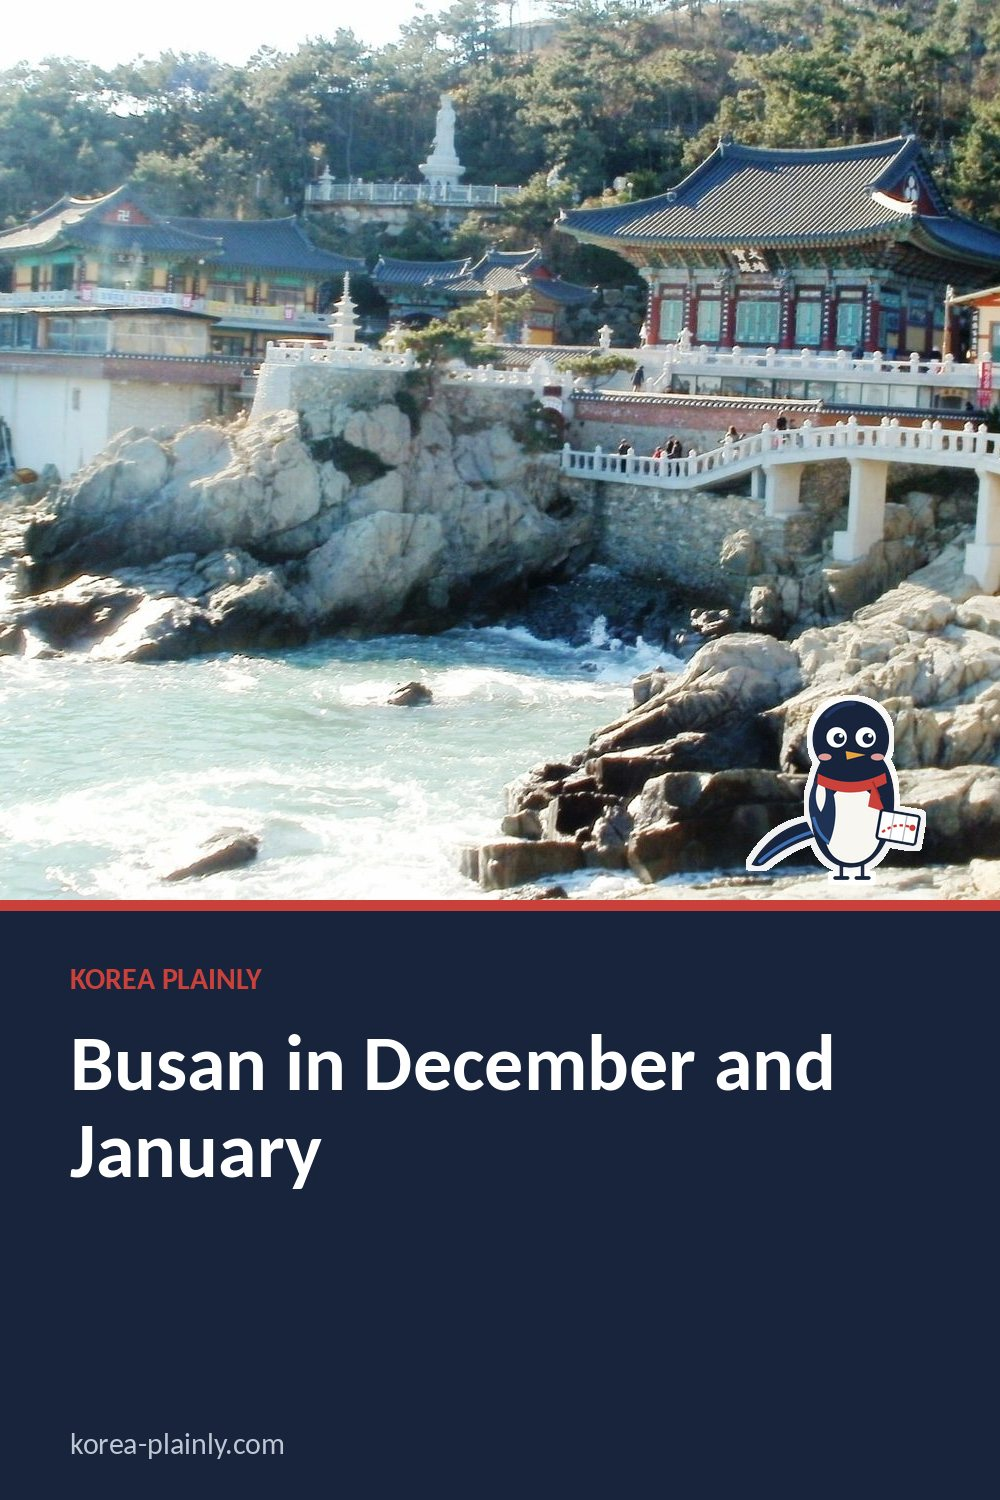
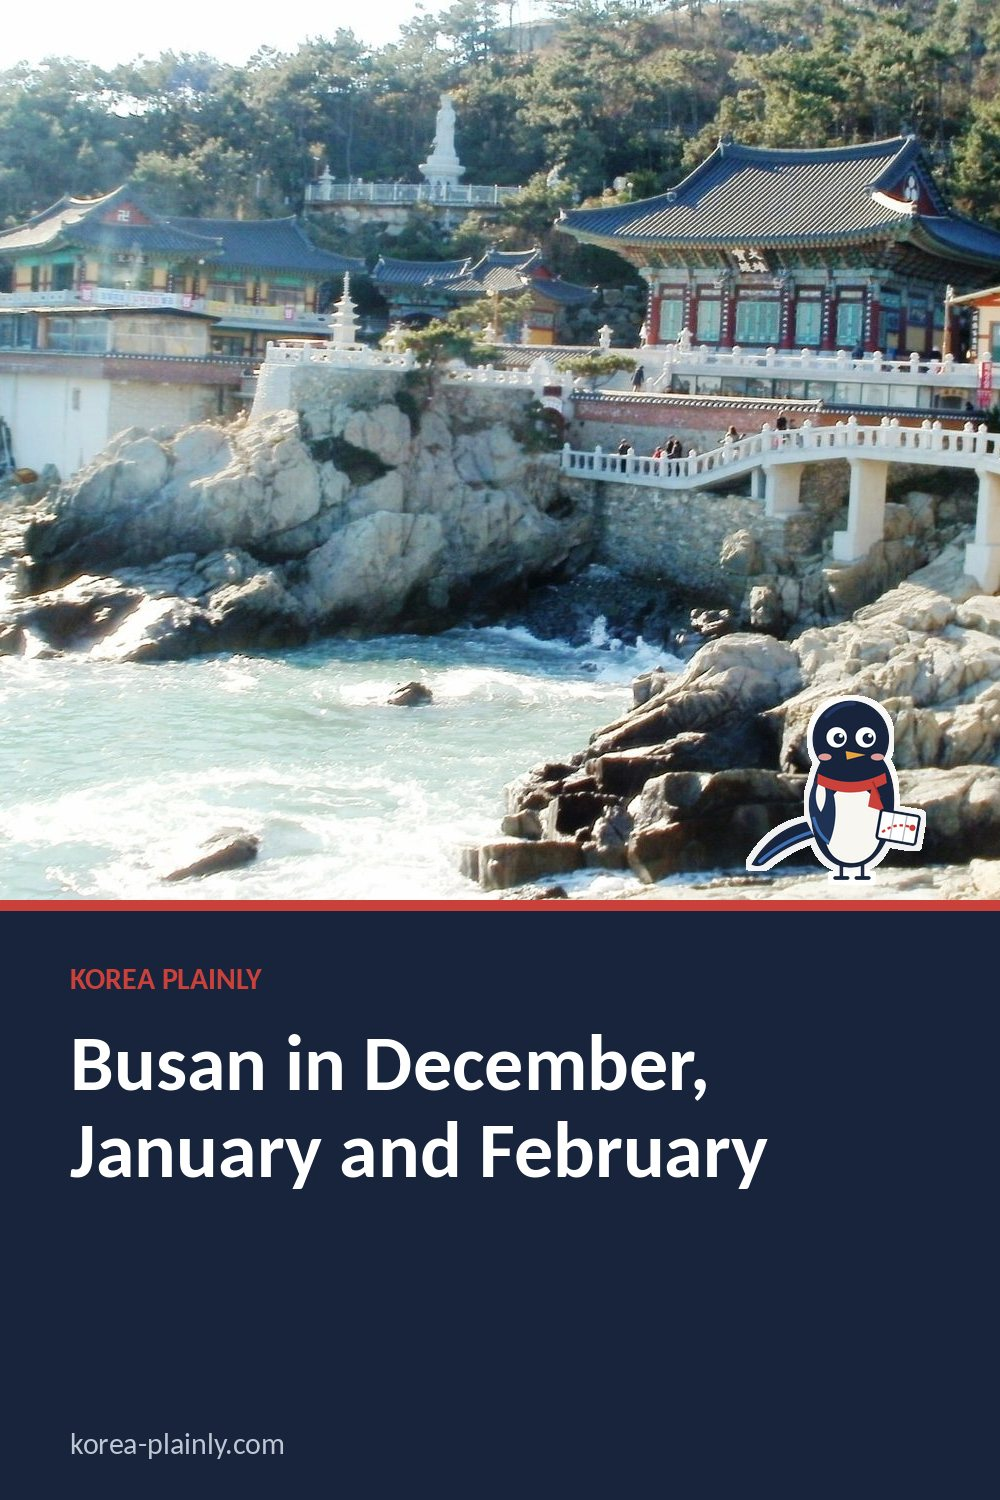
Busan in winter: retitle for 'Busan in February', fuller February section (Seollal 2027 closures, Daeboreum 21 Feb at Haeundae, early plum blossom at Tongdosa), February weather FAQ, specific meta description
Claude-Session: https://claude.ai/code/session_01MMQnqFDHyu6GxmFfpwXQnd

Changed region(s): [[0.341, 0.6747, 0.837, 0.7973]]

diff --git a/busan-in-winter.html b/busan-in-winter.html
@@ -11,11 +11,11 @@
 >
 
 <link rel="stylesheet" href="style.css?v=20261015-1">
-<title>Busan in December and January: Weather, Things to Do and What to Pack</title>
+<title>Busan in December, January and February: Weather, Things to Do and What to Pack</title>
 
 <meta
   name="description"
-  content="Busan in December and January: about 10°C by day and near freezing at night, plus beach walks, winter lights, hot food and what to pack for the sea wind."
+  content="Busan from December to February: about 8-10°C by day, sea wind, Haeundae lights, Seollal and Daeboreum, hot soups, bathhouses and what to pack."
 >
 <link
   rel="canonical"
@@ -29,12 +29,12 @@
 
 <meta
   property="og:title"
-  content="Busan in December and January: Weather, Things to Do and What to Pack"
+  content="Busan in December, January and February: Weather, Things to Do and What to Pack"
 >
 
 <meta
   property="og:description"
-  content="Busan in December and January: about 10°C by day and near freezing at night, plus beach walks, winter lights, hot food and what to pack for the sea wind."
+  content="Busan from December to February: about 8-10°C by day, sea wind, Haeundae lights, Seollal and Daeboreum, hot soups, bathhouses and what to pack."
 >
 
 <meta
@@ -59,12 +59,12 @@
 
 <meta
   name="twitter:title"
-  content="Busan in December and January: Weather, Things to Do and What to Pack"
+  content="Busan in December, January and February: Weather, Things to Do and What to Pack"
 >
 
 <meta
   name="twitter:description"
-  content="Busan in December and January: about 10°C by day and near freezing at night, plus beach walks, winter lights, hot food and what to pack for the sea wind."
+  content="Busan from December to February: about 8-10°C by day, sea wind, Haeundae lights, Seollal and Daeboreum, hot soups, bathhouses and what to pack."
 >
 
 <meta
@@ -247,9 +247,9 @@ footer {
 <link rel="stylesheet" href="article.css?v=4">
 <link rel="stylesheet" href="https://fonts.googleapis.com/css2?family=DM+Sans:wght@400;500;600;700&family=Playfair+Display:ital,wght@0,600;1,600&display=swap">
 <link rel="icon" href="/favicon.svg" type="image/svg+xml">
-<script type="application/ld+json" id="kp-faq-ld">{"@context": "https://schema.org", "@type": "FAQPage", "mainEntity": [{"@type": "Question", "name": "Is Busan worth visiting in winter?", "acceptedAnswer": {"@type": "Answer", "text": "Yes, if you dress for the wind. Busan is usually milder than Seoul and often sunny, the beaches and temples are quieter, the winter lights look their best and hot soups and bathhouses are at their most welcome. Plan on walks, markets, temples and food rather than the beach."}}, {"@type": "Question", "name": "Does it snow in Busan?", "acceptedAnswer": {"@type": "Answer", "text": "Rarely. Busan gets snow only on a few days in some winters, and it usually melts quickly. If you want snow, go to Gangwon Province in the north-east; see our winter festivals guide."}}, {"@type": "Question", "name": "Can you swim in Busan in winter?", "acceptedAnswer": {"@type": "Answer", "text": "Not really. The sea is cold, and the beaches are only officially open for swimming, with lifeguards, in summer. You may see a polar bear swim event at Haeundae in some winters, but for most visitors winter is a season for beach walks, not swimming."}}, {"@type": "Question", "name": "What is the weather like in Busan in January?", "acceptedAnswer": {"@type": "Answer", "text": "Cold, dry and often sunny. January is Busan's coldest month, with daytime highs of about 8°C and nights near 0°C on average, and the wind by the sea makes it feel colder. Pack a windproof coat, gloves and a hat."}}, {"@type": "Question", "name": "Is December a good time to visit Busan?", "acceptedAnswer": {"@type": "Answer", "text": "Yes, if you dress for the wind. December is milder than in Seoul, often sunny, and the Haeundae and Gwangbok-ro light festivals make the evenings special. Book trains early for Christmas weekend and New Year."}}, {"@type": "Question", "name": "What should I wear in Busan in December?", "acceptedAnswer": {"@type": "Answer", "text": "Layers and a windproof coat. Days are often around 10°C but feel colder by the sea and after dark, so bring a warm jumper, gloves and a hat for the evenings, and shoes you can walk on hills in."}}]}</script>
-<script type="application/ld+json" id="kp-article-ld">{"@context": "https://schema.org", "@type": "Article", "headline": "Busan in December and January: Weather, Things to Do and What to Pack", "description": "Busan in December and January: about 10°C by day and near freezing at night, plus beach walks, winter lights, hot food and what to pack for the sea wind.", "image": ["https://korea-plainly.com/photo-busan-in-winter.jpg"], "datePublished": "2026-10-30", "dateModified": "2026-11-13", "author": {"@type": "Person", "name": "Jungsuk Kim", "url": "https://korea-plainly.com/about.html#author"}, "publisher": {"@type": "Organization", "name": "Korea Plainly", "url": "https://korea-plainly.com/"}, "mainEntityOfPage": "https://korea-plainly.com/busan-in-winter.html"}</script>
-<script type="application/ld+json" id="kp-breadcrumb-ld">{"@context": "https://schema.org", "@type": "BreadcrumbList", "itemListElement": [{"@type": "ListItem", "position": 1, "name": "Home", "item": "https://korea-plainly.com/"}, {"@type": "ListItem", "position": 2, "name": "Guides", "item": "https://korea-plainly.com/guides.html"}, {"@type": "ListItem", "position": 3, "name": "Travel Basics", "item": "https://korea-plainly.com/guides.html?category=travel"}, {"@type": "ListItem", "position": 4, "name": "Busan in December and January: Weather, Things to Do and What to Pack", "item": "https://korea-plainly.com/busan-in-winter.html"}]}</script>
+<script type="application/ld+json" id="kp-faq-ld">{"@context": "https://schema.org", "@type": "FAQPage", "mainEntity": [{"@type": "Question", "name": "Is Busan worth visiting in winter?", "acceptedAnswer": {"@type": "Answer", "text": "Yes, if you dress for the wind. Busan is usually milder than Seoul and often sunny, the beaches and temples are quieter, the winter lights look their best and hot soups and bathhouses are at their most welcome. Plan on walks, markets, temples and food rather than the beach."}}, {"@type": "Question", "name": "Does it snow in Busan?", "acceptedAnswer": {"@type": "Answer", "text": "Rarely. Busan gets snow only on a few days in some winters, and it usually melts quickly. If you want snow, go to Gangwon Province in the north-east; see our winter festivals guide."}}, {"@type": "Question", "name": "Can you swim in Busan in winter?", "acceptedAnswer": {"@type": "Answer", "text": "Not really. The sea is cold, and the beaches are only officially open for swimming, with lifeguards, in summer. You may see a polar bear swim event at Haeundae in some winters, but for most visitors winter is a season for beach walks, not swimming."}}, {"@type": "Question", "name": "What is the weather like in Busan in January?", "acceptedAnswer": {"@type": "Answer", "text": "Cold, dry and often sunny. January is Busan's coldest month, with daytime highs of about 8°C and nights near 0°C on average, and the wind by the sea makes it feel colder. Pack a windproof coat, gloves and a hat."}}, {"@type": "Question", "name": "What is the weather like in Busan in February?", "acceptedAnswer": {"@type": "Answer", "text": "Cool, dry and often sunny. Average highs are about 10°C and lows about 1°C, a little warmer than January, and the sea wind still bites in the evening. A warm jumper, a windproof coat and gloves are enough for most days."}}, {"@type": "Question", "name": "Is December a good time to visit Busan?", "acceptedAnswer": {"@type": "Answer", "text": "Yes, if you dress for the wind. December is milder than in Seoul, often sunny, and the Haeundae and Gwangbok-ro light festivals make the evenings special. Book trains early for Christmas weekend and New Year."}}, {"@type": "Question", "name": "What should I wear in Busan in December?", "acceptedAnswer": {"@type": "Answer", "text": "Layers and a windproof coat. Days are often around 10°C but feel colder by the sea and after dark, so bring a warm jumper, gloves and a hat for the evenings, and shoes you can walk on hills in."}}]}</script>
+<script type="application/ld+json" id="kp-article-ld">{"@context": "https://schema.org", "@type": "Article", "headline": "Busan in December, January and February: Weather, Things to Do and What to Pack", "description": "Busan from December to February: about 8-10°C by day, sea wind, Haeundae lights, Seollal and Daeboreum, hot soups, bathhouses and what to pack.", "image": ["https://korea-plainly.com/photo-busan-in-winter.jpg"], "datePublished": "2026-10-30", "dateModified": "2026-11-18", "author": {"@type": "Person", "name": "Jungsuk Kim", "url": "https://korea-plainly.com/about.html#author"}, "publisher": {"@type": "Organization", "name": "Korea Plainly", "url": "https://korea-plainly.com/"}, "mainEntityOfPage": "https://korea-plainly.com/busan-in-winter.html"}</script>
+<script type="application/ld+json" id="kp-breadcrumb-ld">{"@context": "https://schema.org", "@type": "BreadcrumbList", "itemListElement": [{"@type": "ListItem", "position": 1, "name": "Home", "item": "https://korea-plainly.com/"}, {"@type": "ListItem", "position": 2, "name": "Guides", "item": "https://korea-plainly.com/guides.html"}, {"@type": "ListItem", "position": 3, "name": "Travel Basics", "item": "https://korea-plainly.com/guides.html?category=travel"}, {"@type": "ListItem", "position": 4, "name": "Busan in December, January and February: Weather, Things to Do and What to Pack", "item": "https://korea-plainly.com/busan-in-winter.html"}]}</script>
 <meta property="article:published_time" content="2026-10-30">
 </head>
 
@@ -280,12 +280,12 @@ TRAVEL BASICS · SEASONAL
 </div>
 
 <h1>
-Busan in December and January: Weather, Things to Do and What to Pack
+Busan in December, January and February: Weather, Things to Do and What to Pack
 </h1>
-<p class="kp-date" data-kp="date">By <a href="about.html#author">Jungsuk Kim</a>, Korea Plainly · Published <time datetime="2026-10-30">30 October 2026</time> · Updated <time datetime="2026-11-13">13 November 2026</time></p>
+<p class="kp-date" data-kp="date">By <a href="about.html#author">Jungsuk Kim</a>, Korea Plainly · Published <time datetime="2026-10-30">30 October 2026</time> · Updated <time datetime="2026-11-18">18 November 2026</time></p>
 
 <p class="dek">
-Busan in December and January: about 10°C by day and near freezing at night, plus beach walks, winter lights, hot food and what to pack for the sea wind.
+Busan from December to February: about 8-10°C by day, sea wind, Haeundae lights, Seollal and Daeboreum, hot soups, bathhouses and what to pack.
 </p>
 
 <img
@@ -317,7 +317,13 @@ Busan in December and January: about 10°C by day and near freezing at night, pl
 <h3>Busan in January</h3>
 <p>January is the coldest month, with days around 8°C and nights near freezing, and the strongest sea wind. On 1 January thousands of people gather on Haeundae Beach and at Haedong Yonggungsa to watch the first sunrise of the year, so go very early or pick a quieter spot. The Haeundae lights stay up until about 10 January.</p>
 <h3>Busan in February</h3>
-<p>February is still cold but slowly brightens, with days back up to about 10°C. Seollal (Lunar New Year) falls on 7 February 2027, with a holiday from 6 to 9 February: trains out of Seoul sell out early, and some markets and small restaurants close for a day or two. See our <a href="seollal-travel-tips.html">Seollal guide</a>.</p>
+<p>February is still cold but slowly brightens, with days back up to about 10°C and nights around 1°C. It is the quietest month of the winter: the light festivals are over, hotel prices near Haeundae are usually at their lowest, and the first signs of spring appear by the end of the month.</p>
+<ul>
+<li><strong>Seollal (설날, Lunar New Year)</strong> falls on 7 February 2027, with a holiday from 6 to 9 February. KTX tickets out of Seoul sell out early, and many market stalls in Gukje Market and Bupyeong Kkangtong Market, and small family restaurants, close for a day or two. Department stores, big cafés and Spa Land usually stay open. See our <a href="seollal-travel-tips.html">Seollal guide</a>.</li>
+<li><strong>Jeongwol Daeboreum (정월대보름)</strong>, the first full moon of the lunar year, falls on 21 February 2027. Haeundae Beach usually hosts a <em>daljip</em> (moon house) burning on the sand that evening, with folk games and roasted nuts (<em>bureom</em>); check Haeundae-gu's website for the year's programme.</li>
+<li><strong>Early plum blossom.</strong> The first <em>maehwa</em> (매화, plum) flowers open in the south from mid to late February. Tongdosa temple in Yangsan, about an hour north of Busan by bus from Nopo station, is known for its old Jajangmae plum tree, which is often one of the first in Korea to flower.</li>
+</ul>
+<p>Pack as for January, but expect some mild, still afternoons when a thinner coat is enough.</p>
 <h2 id="things-to-do-in-busan-in-winter">Things to do in Busan in winter</h2>
 
 <h3>Haeundae and Gwangalli beach walks, and Gwangan Bridge at night</h3>
@@ -373,6 +379,8 @@ Busan in December and January: about 10°C by day and near freezing at night, pl
 <p>Not really. The sea is cold, and the beaches are only officially open for swimming, with lifeguards, in summer. You may see a polar bear swim event at Haeundae in some winters, but for most visitors winter is a season for beach walks, not swimming.</p>
 <h3>What is the weather like in Busan in January?</h3>
 <p>Cold, dry and often sunny. January is Busan's coldest month, with daytime highs of about 8°C and nights near 0°C on average, and the wind by the sea makes it feel colder. Pack a windproof coat, gloves and a hat.</p>
+<h3>What is the weather like in Busan in February?</h3>
+<p>Cool, dry and often sunny. Average highs are about 10°C and lows about 1°C, a little warmer than January, and the sea wind still bites in the evening. A warm jumper, a windproof coat and gloves are enough for most days.</p>
 <h3>Is December a good time to visit Busan?</h3>
 <p>Yes, if you dress for the wind. December is milder than in Seoul, often sunny, and the Haeundae and Gwangbok-ro light festivals make the evenings special. Book trains early for Christmas weekend and New Year.</p>
 <h3>What should I wear in Busan in December?</h3>

diff --git a/jeju-in-winter.html b/jeju-in-winter.html
@@ -398,7 +398,7 @@ Jeju weather in December, January and February: how mild and windy it is, plus t
 <!-- /kp-kkachi -->
 <section class="related-guides">
 <h2>Related guides</h2>
-<div class="kp-related"><a href="busan-in-winter.html"><img src="photo-busan-in-winter.jpg" alt="" loading="lazy" srcset="img/photo-busan-in-winter.cc4f998a.w480.webp 480w, img/photo-busan-in-winter.cc4f998a.w800.webp 800w, img/photo-busan-in-winter.cc4f998a.w1200.webp 1200w, photo-busan-in-winter.jpg 1600w" sizes="(max-width: 600px) 100vw, (max-width: 1000px) 50vw, 400px" decoding="async"><span>Busan in December and January: Weather, Things to Do and What to Pack</span></a><a href="korea-in-december.html"><img src="photo-korea-in-december.jpg" alt="" loading="lazy" srcset="img/photo-korea-in-december.c2f6894b.w480.webp 480w, img/photo-korea-in-december.c2f6894b.w800.webp 800w, img/photo-korea-in-december.c2f6894b.w1200.webp 1200w, photo-korea-in-december.jpg 1600w" sizes="(max-width: 600px) 100vw, (max-width: 1000px) 50vw, 400px" decoding="async"><span>Korea in December: Seoul, Busan and Jeju Weather and What to Pack</span></a><a href="korea-in-january.html"><img src="photo-korea-in-january.jpg" alt="" loading="lazy" srcset="img/photo-korea-in-january.e539f531.w480.webp 480w, img/photo-korea-in-january.e539f531.w800.webp 800w, img/photo-korea-in-january.e539f531.w1200.webp 1200w, photo-korea-in-january.jpg 1600w" sizes="(max-width: 600px) 100vw, (max-width: 1000px) 50vw, 400px" decoding="async"><span>Korea in January: Things to Do in Seoul, Busan and Jeju, Weather and What to Pack</span></a></div>
+<div class="kp-related"><a href="busan-in-winter.html"><img src="photo-busan-in-winter.jpg" alt="" loading="lazy" srcset="img/photo-busan-in-winter.cc4f998a.w480.webp 480w, img/photo-busan-in-winter.cc4f998a.w800.webp 800w, img/photo-busan-in-winter.cc4f998a.w1200.webp 1200w, photo-busan-in-winter.jpg 1600w" sizes="(max-width: 600px) 100vw, (max-width: 1000px) 50vw, 400px" decoding="async"><span>Busan in December, January and February: Weather, Things to Do and What to Pack</span></a><a href="korea-in-december.html"><img src="photo-korea-in-december.jpg" alt="" loading="lazy" srcset="img/photo-korea-in-december.c2f6894b.w480.webp 480w, img/photo-korea-in-december.c2f6894b.w800.webp 800w, img/photo-korea-in-december.c2f6894b.w1200.webp 1200w, photo-korea-in-december.jpg 1600w" sizes="(max-width: 600px) 100vw, (max-width: 1000px) 50vw, 400px" decoding="async"><span>Korea in December: Seoul, Busan and Jeju Weather and What to Pack</span></a><a href="korea-in-january.html"><img src="photo-korea-in-january.jpg" alt="" loading="lazy" srcset="img/photo-korea-in-january.e539f531.w480.webp 480w, img/photo-korea-in-january.e539f531.w800.webp 800w, img/photo-korea-in-january.e539f531.w1200.webp 1200w, photo-korea-in-january.jpg 1600w" sizes="(max-width: 600px) 100vw, (max-width: 1000px) 50vw, 400px" decoding="async"><span>Korea in January: Things to Do in Seoul, Busan and Jeju, Weather and What to Pack</span></a></div>
 </section>
 
 </article>

diff --git a/busan-with-kids.html b/busan-with-kids.html
@@ -347,7 +347,7 @@ exploring at your own pace.
 <!-- /kp-kkachi -->
 <section class="related-guides">
 <h2>Related guides</h2>
-<div class="kp-related"><a href="seoul-with-kids.html"><img src="thumb-auto-seoul-with-kids.svg" alt="" loading="lazy"><span>Things to Do in Seoul with Kids: An Easy Family Guide</span></a><a href="things-to-do-in-busan.html"><img src="photo-things-to-do-in-busan.jpg" alt="" loading="lazy" srcset="img/photo-things-to-do-in-busan.7a7c5d49.w480.webp 480w, img/photo-things-to-do-in-busan.7a7c5d49.w800.webp 800w, img/photo-things-to-do-in-busan.7a7c5d49.w1200.webp 1200w, photo-things-to-do-in-busan.jpg 1600w" sizes="(max-width: 600px) 100vw, (max-width: 1000px) 50vw, 400px" decoding="async"><span>Things to Do in Busan, South Korea: A First-Timer&#x27;s Guide by Area</span></a><a href="busan-in-winter.html"><img src="photo-busan-in-winter.jpg" alt="" loading="lazy" srcset="img/photo-busan-in-winter.cc4f998a.w480.webp 480w, img/photo-busan-in-winter.cc4f998a.w800.webp 800w, img/photo-busan-in-winter.cc4f998a.w1200.webp 1200w, photo-busan-in-winter.jpg 1600w" sizes="(max-width: 600px) 100vw, (max-width: 1000px) 50vw, 400px" decoding="async"><span>Busan in December and January: Weather, Things to Do and What to Pack</span></a></div>
+<div class="kp-related"><a href="seoul-with-kids.html"><img src="thumb-auto-seoul-with-kids.svg" alt="" loading="lazy"><span>Things to Do in Seoul with Kids: An Easy Family Guide</span></a><a href="things-to-do-in-busan.html"><img src="photo-things-to-do-in-busan.jpg" alt="" loading="lazy" srcset="img/photo-things-to-do-in-busan.7a7c5d49.w480.webp 480w, img/photo-things-to-do-in-busan.7a7c5d49.w800.webp 800w, img/photo-things-to-do-in-busan.7a7c5d49.w1200.webp 1200w, photo-things-to-do-in-busan.jpg 1600w" sizes="(max-width: 600px) 100vw, (max-width: 1000px) 50vw, 400px" decoding="async"><span>Things to Do in Busan, South Korea: A First-Timer&#x27;s Guide by Area</span></a><a href="busan-in-winter.html"><img src="photo-busan-in-winter.jpg" alt="" loading="lazy" srcset="img/photo-busan-in-winter.cc4f998a.w480.webp 480w, img/photo-busan-in-winter.cc4f998a.w800.webp 800w, img/photo-busan-in-winter.cc4f998a.w1200.webp 1200w, photo-busan-in-winter.jpg 1600w" sizes="(max-width: 600px) 100vw, (max-width: 1000px) 50vw, 400px" decoding="async"><span>Busan in December, January and February: Weather, Things to Do and What to Pack</span></a></div>
 </section>
 
 </article>

diff --git a/busan.html b/busan.html
@@ -66,7 +66,7 @@ h1{font-size:clamp(44px,8vw,82px);line-height:1;margin:12px 0}.intro{max-width:7
 <h2>Related guides</h2>
 <ul>
 <li><a href="korea-7-day-itinerary.html">7 Days in Korea: A First-Timer&#x27;s Itinerary (Seoul, Gyeongju, Busan)</a></li>
-<li><a href="busan-in-winter.html">Busan in December and January: Weather, Things to Do and What to Pack</a></li>
+<li><a href="busan-in-winter.html">Busan in December, January and February: Weather, Things to Do and What to Pack</a></li>
 <li><a href="ktx-train-guide.html">KTX Train from Seoul to Busan: Tickets, Times and How to Ride</a></li>
 </ul>
 </section>

diff --git a/guides.html b/guides.html
@@ -2706,11 +2706,11 @@ TRAVEL · NEW
 </small>
 
 <h2>
-Busan in December and January: Weather, Things to Do and What to Pack
+Busan in December, January and February: Weather, Things to Do and What to Pack
 </h2>
 
 <p>
-Busan in December and January: about 10°C by day and near freezing at night, plus beach walks, winter lights, hot food and what to pack for the sea wind.
+Busan from December to February: about 8-10°C by day, sea wind, Haeundae lights, Seollal and Daeboreum, hot soups, bathhouses and what to pack.
 </p>
 
 <span class="guide-arrow">
